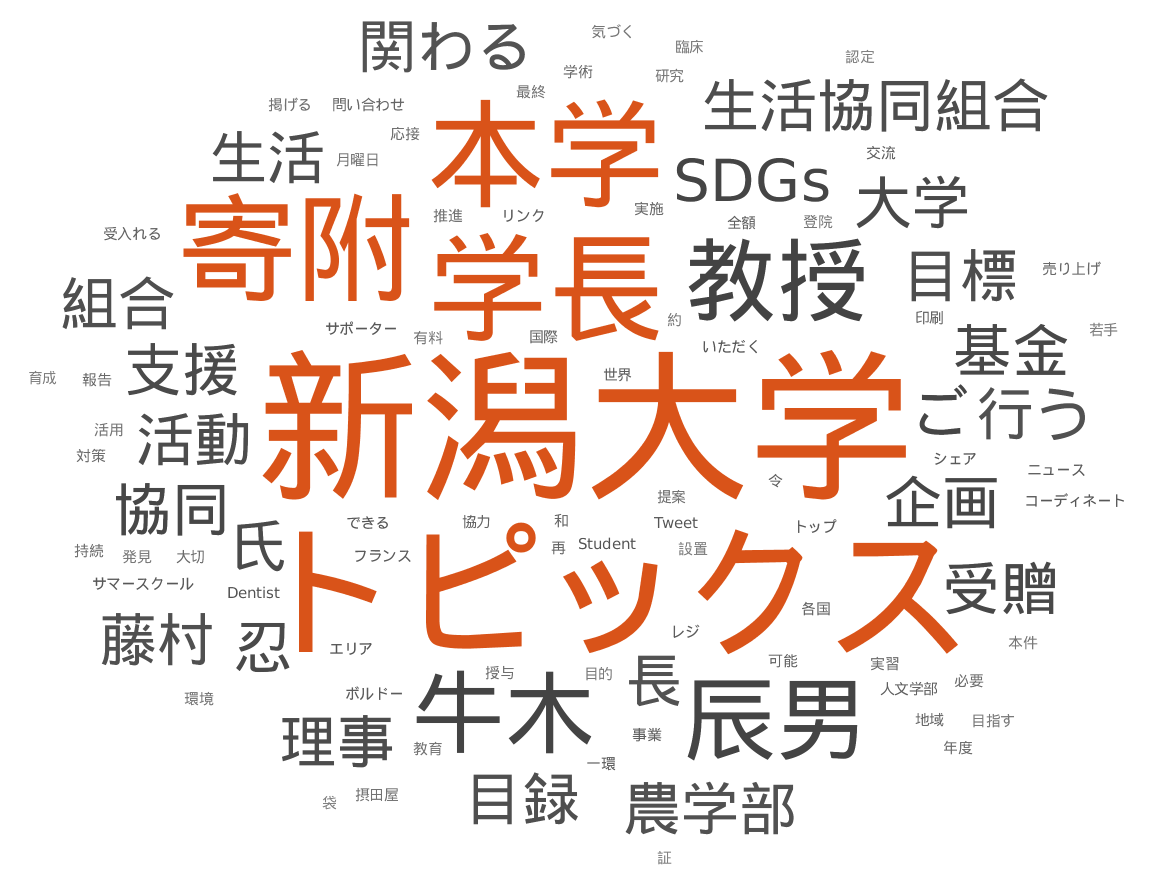
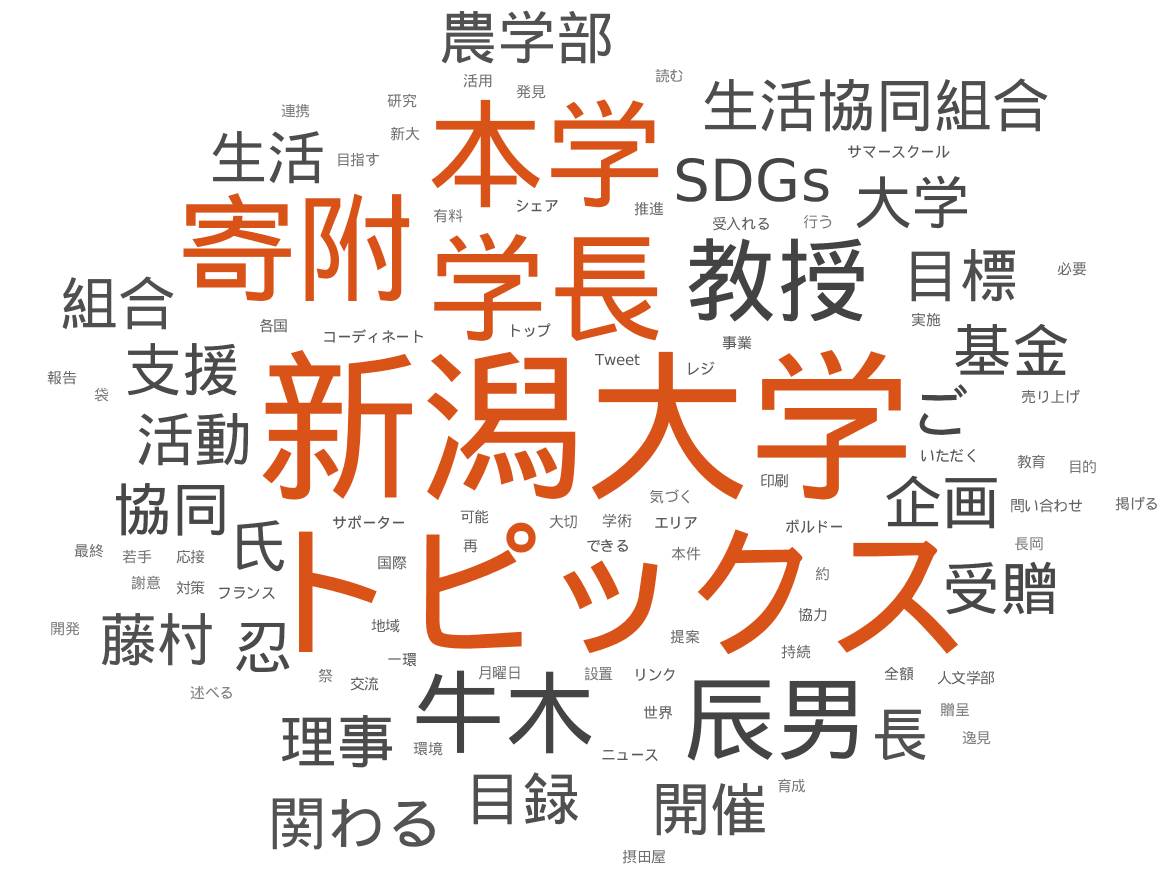
CI autogen [ci skip]

diff --git a/docs/_posts/2021-10-29-令和4年度新潟大学工学部総合型選抜における再試験について（お詫び）.md b/docs/_posts/2021-10-29-令和4年度新潟大学工学部総合型選抜における再試験について（お詫び）.md
@@ -1,0 +1,7 @@
+---
+layout: post
+title: 令和4年度新潟大学工学部総合型選抜における再試験について（お詫び）
+---
+Autogenerated Word Cloud.
+Source\: [https://www.niigata-u.ac.jp/news/2021/95582/](https://www.niigata-u.ac.jp/news/2021/95582/)
+![WordCloud]({{ site.baseurl }}/assets/495e81dea357e859b949fabd2e013da3.png)

diff --git a/docs/_posts/2021-10-29-第62回新大祭を開催しました.md b/docs/_posts/2021-10-29-第62回新大祭を開催しました.md
@@ -1,0 +1,7 @@
+---
+layout: post
+title: 第62回新大祭を開催しました
+---
+Autogenerated Word Cloud.
+Source\: [https://www.niigata-u.ac.jp/campus/shindaisei/2021/95548/](https://www.niigata-u.ac.jp/campus/shindaisei/2021/95548/)
+![WordCloud]({{ site.baseurl }}/assets/2a23c34252c0b1a727d154e5f1aa3dcb.png)
